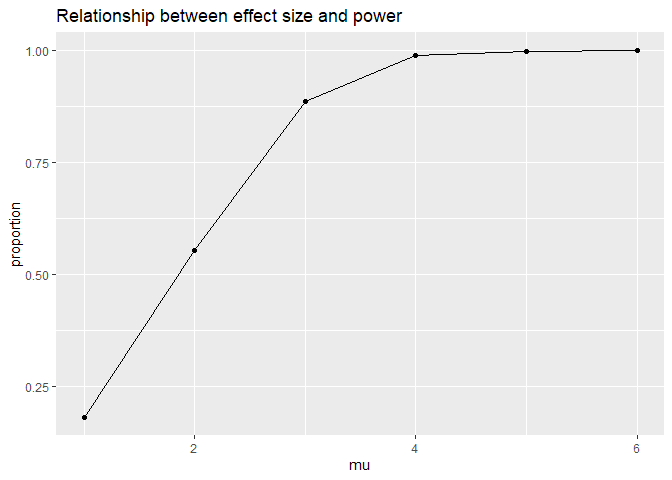
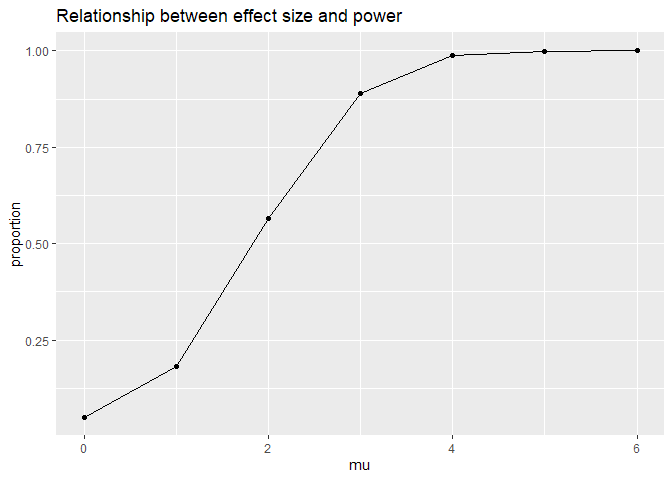
-Q3 Include mu=0 in the plot / submission

diff --git a/p8105_hw5_wg2364.md b/p8105_hw5_wg2364.md
@@ -325,7 +325,7 @@ simulation_prop_ <- function(simulation_result){
 }
 
 Data <- tibble(
-  mu = 1:6
+  mu = 0:6
 )
 
 Data <-
@@ -400,8 +400,10 @@ left_join(total_mean_estimation, reject_mean_estimation) %>%
 Comments:
 
 In general, we can see that as the *mu* increase, the divergent of these
-two sets will be narrower. Also, we notice that the total mean is
-approximately equal to the true *mu*. Again, this is result from CLT and
-as the *mu* increase, the distribution of sample mean will follows a
-normal distribution with increasing *mu* and the proportion of rejection
-(H\_0: *mu* = 0) will get bigger.
+two sets will increase first and be narrower. Also, we notice that the
+total mean is approximately equal to the true *mu*. Again, this is
+result from CLT and as the *mu* increase, the distribution of sample
+mean will follows a normal distribution with increasing *mu* and the
+proportion of rejection (H\_0: *mu* = 0) will get bigger. Also, this
+reflect the trade-off between the power of the test and the number of
+sub-samples in the rejection group (they share the same distribution)
